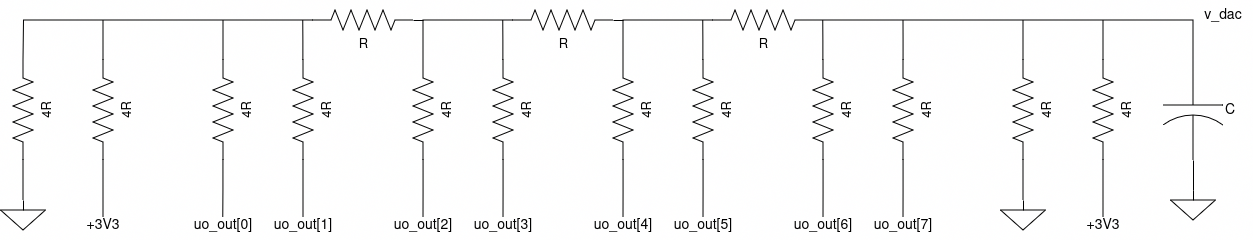
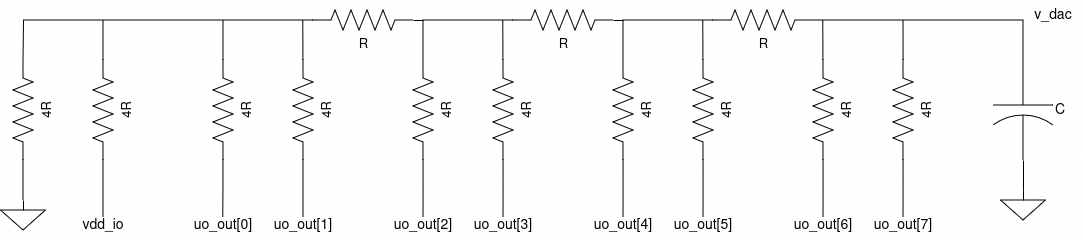
Documentation update

diff --git a/docs/info.md b/docs/info.md
@@ -9,32 +9,42 @@ You can also include images in this folder and reference them in the markdown. E
 
 ## Operation
 
-This design implements a linear 8-bit DAC suitable for dc and low-frequency inputs.  An analog voltage is produced by connecting the encoder's outputs to a modified R-2R ladder on the PCB (see External Hardware).  It achieves high-linearity by using segmented mismatch-shaping, so the DAC does not require matched resistors.  The encoder provides 1st order mismatch and quantization noise shaping.  With a clock frequency of 6.144 MHz and a lowpass filter corner of 24 kHz, the oversampling ratio (OSR) is 256.
+This design implements a linear 8-bit DAC suitable for dc and low-frequency inputs.  The encoder quantizes the 8-bit input to a 55-level signal.  An analog voltage is produced by connecting the encoder's outputs to a modified R-2R ladder on the PCB (see External Hardware).  Quantization noise is shaped in the frequency domain with a 1st order highpass shaped.  The residual high frequency noise is suppressed using an analog lowpass filter.  With a clock frequency of 6.144 MHz and a lowpass filter corner of 24 kHz, the oversampling ratio (OSR) is 256.
 
-Error due to resistor mismatch appears at the output as 1st-order highpass shaped noise.  The encoder also reduces the bit-width from 8-bits, and quantization error is also 1st-order highpass shaped.  Thus, with passive filtering, a linear, low-noise dc output can be achieved.  The theory behind this encoder is described in: [A. Fishov, E. Fogleman, E. Siragusa, I. Galton, "Segmented Mismatch-Shaping D/A Conversion", IEEE International Symposium on Circuits and Systems (ISCAS), 2002](https://https://ieeexplore.ieee.org/document/1010547/)
+This encoder provides quantization noise shaping similar to that of a multibit delta-sigma modulator, but it is a purely feedforward network with no quantization error feedback.  The theory behind this encoder is described in: [A. Fishov, E. Fogleman, E. Siragusa, I. Galton, "Segmented Mismatch-Shaping D/A Conversion", IEEE International Symposium on Circuits and Systems (ISCAS), 2002](https://https://ieeexplore.ieee.org/document/1010547/)
 
-Ideally, this encoder would be buffered through a clean analog supply and retimed to reduce glitches on output transitions.  However, reasonable performance should be possible driving the resistor ladder directly from the encoder through the IO supply.  
-
-## How to test
-
-DAC input data is provided through `ui_in[7:0]`, and the encoder uses the project clock for mismatch shaping.  Clock frequencies in the range of 1-10 MHz are reasonable.  Higher clock frequency increases the OSR but may increase glitch error.  The encoder output is `uo_out[7:0]`, and it can be reconstructed by summing the bits with the following weights: 
-
-    out = 8*uo_out[7]+uo_out[6]) + 4*(uo_out[5]+uo_out[4]) + 2*uo_out[3]+uo_out[2]) + uo_out[1]+uo_out[0]
-
-The resistor ladder shown below sums the outputs with this weighting.  Any output network that can create this weighting will work.  
-
-The DAC is free-running off the project clock, and inputs appear at the output immediately after passing through a pair of clock sync registers.  A simple dc test can be performed using the input DIP switches and the resistor ladder.  It is possible to input dynamic waveforms from the microcontroller as well. 
-
-The encoder has four modes of operation determined by `uio_in[1:0]`:
-* 3:  1st order mismatch-shaping with dither
-* 2:  randomization (flat spectral shaping)
-* 1:  1st order shaping, no dither
-* 0:  static encoding (no linearization)
+Note that due to time limitations, this design implements quantization noise shaping, but not DAC element mismatch shaping.  Look for this feature in a future Tiny Tapeout.  
 
 ## External hardware
 
-Technically, this is a mismatch shaping DAC encoder.  For a high-performance DAC, it is best to use a precision reference voltage and a clean clock source for edge retiming.  However, it is possible to connect the encoder directly to a resistor ladder.  In this case, the digital IO supply acts as the DAC's reference voltage, and timing skews between the `uo_out` bits may impact performance.  
+Ideally, this encoder would be buffered through a clean analog supply and retimed at the output with a clean clock to align the bit transitions.  However, reasonable performance should be possible driving the resistor ladder directly from the encoder through the IO supply.  When used n this way, the IO supply acts as the DAC's reference voltage.
+
+DAC input data is provided through `ui_in[7:0]`, and the encoder updates using the project clock.  Clock frequencies in the range of 1-10 MHz are reasonable.  Higher clock frequency increases the OSR.  The encoder output is `uo_out[7:0]`, and it can be reconstructed by summing the bits with the following weights: 
+
+    v_out = 0.5*vdd_io*(1 + (2**-4)*(8*uo_out[7]+uo_out[6]) + 4*(uo_out[5]+uo_out[4]) + 2*(uo_out[3]+uo_out[2]) + 
+    (uo_out[1]+uo_out[0])
+     - 15)
+
+The DAC's output swing ranges from `0.25*vdd_io` to `0.75*vdd_io`, where `vdd_io` is the IO supply voltage.
 
 An external resistor ladder is required to create the analog output voltage, and a capacitor is required to filter high-frequency noise.  The termination resistors are placed at the ends of the ladder to ensure that each section has nominally identical load resistance.  
 
-The suggested unit R value is 10 kOhm.  The equivalent output resistance of the network at __v_out__ is 10 kOhm.  A 680 pF output capacitor provides a 23 kHz lowpass corner.  With this choice of R, the minimum load resistance on each `uo_out` pin is 60 kOhm, and the driver will source a maximum of 55 uA at 3.3 V.
+The resistor ladder shown below sums the outputs with this weighting.  Any output network that can create this weighting will work.  
+
+![DAC resistor network](./r-ladder.png)
+
+The suggested unit R value is 10 kOhm, thus all elements marked R should be 10 kOhm, and all 4R elements should be 40 kOhm.  This gives an equivalent output resistance at __v_dac__ of 10 kOhm.  A 680 pF output capacitor provides a 23 kHz lowpass corner.  With this choice of R, each IO driver will sink/source a maximum of 55 uA with `vdd_io` at 3.3 V.
+
+Because element mismatch shaping is not implemented, 1% tolerance resistors are recommended.
+
+## How to test
+
+The DAC is free-running off the project clock, and inputs appear at the output immediately after clock synchronization.  A simple dc test can be performed using the input DIP switches and the resistor ladder.   
+
+The encoder has four modes of operation determined by `uio_in[1:0]`:
+* 3:  1st order shaping with dither
+* 2:  randomization (flat spectral shaping)
+* 1:  1st order shaping, no dither
+* 0:  static encoding (no shaping)
+
+The dc value DAC output can be measured with a DMM.  The DAC's output swing ranges from `0.25*vdd_io` to `0.75*vdd_io`, where `vdd_io` is the IO supply voltage.  The DAC's LSB voltage is `vdd_io/32`.  
